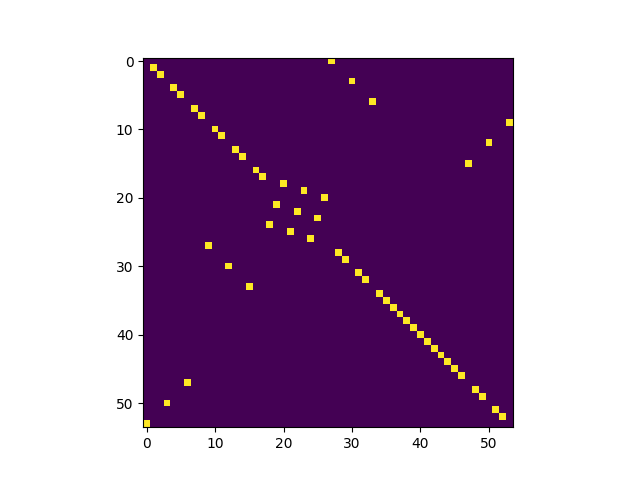
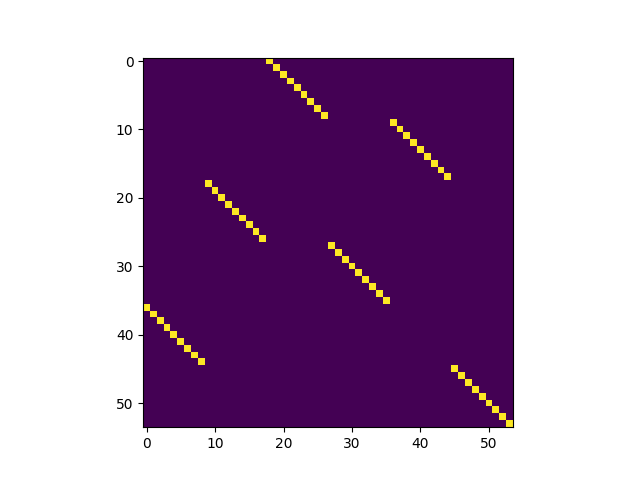
alternate-moveset: adds alternative moveset

diff --git a/RubiksCube.py b/RubiksCube.py
@@ -154,3 +154,60 @@ r[5] = concat([[h,z,z,z,d,z],
 
 for i in range(0, 6):
     r[-i - 1] = np.dot(r[i], np.dot(r[i], r[i]))
+
+# alternate move set
+
+# based on two moves (rotate top cw and ccw)
+# as well as 6 moves (orientation of the cube itself)
+z = np.zeros((9, 9), dtype=int)
+i = np.identity(9, dtype=int)
+
+r2 = [None] * 12
+
+r2[0] = r[0]
+r2[-1] = r[-1]
+
+# pitch
+r2[1] = concat([[z,z,z,z,z,i],
+                [z,z,z,i,z,z],
+                [z,z,i,z,z,z],
+                [i,z,z,z,z,z],
+                [z,z,z,z,i,z],
+                [z,i,z,z,z,z]])
+# anti-pitch
+r2[-2] = concat([[z,z,z,i,z,z],
+                 [z,z,z,z,z,i],
+                 [z,z,i,z,z,z],
+                 [z,i,z,z,z,z],
+                 [z,z,z,z,i,z],
+                 [i,z,z,z,z,z]])
+
+# roll
+r2[2] = concat([[z,z,z,z,i,z],
+                [z,z,i,z,z,z],
+                [i,z,z,z,z,z],
+                [z,z,z,i,z,z],
+                [z,i,z,z,z,z],
+                [z,z,z,z,z,i]])
+# anti-roll
+r2[-3] = concat([[z,z,i,z,z,z],
+                 [z,z,z,z,i,z],
+                 [z,i,z,z,z,z],
+                 [z,z,z,i,z,z],
+                 [i,z,z,z,z,z],
+                 [z,z,z,z,z,i]])
+
+# yaw
+r2[3] = concat([[i,z,z,z,z,z],
+                [z,i,z,z,z,z],
+                [z,z,z,i,z,z],
+                [z,z,z,z,i,z],
+                [z,z,z,z,z,i],
+                [z,z,i,z,z,z]])
+# anti-yaw
+r2[-4] = concat([[i,z,z,z,z,z],
+                 [z,i,z,z,z,z],
+                 [z,z,z,z,z,i],
+                 [z,z,i,z,z,z],
+                 [z,z,z,i,z,z],
+                 [z,z,z,z,i,z]])

diff --git a/plot.py b/plot.py
@@ -2,7 +2,7 @@
 import matplotlib.pyplot as plt
 import RubiksCube as rc
 
-for move in range(-6, 6):
-    plt.imshow(rc.r[move])
+for move in range(-4, 4):
+    plt.imshow(rc.r2[move])
     print(f"transform-{move}.png")
     plt.savefig(f"transform-{move}.png")
